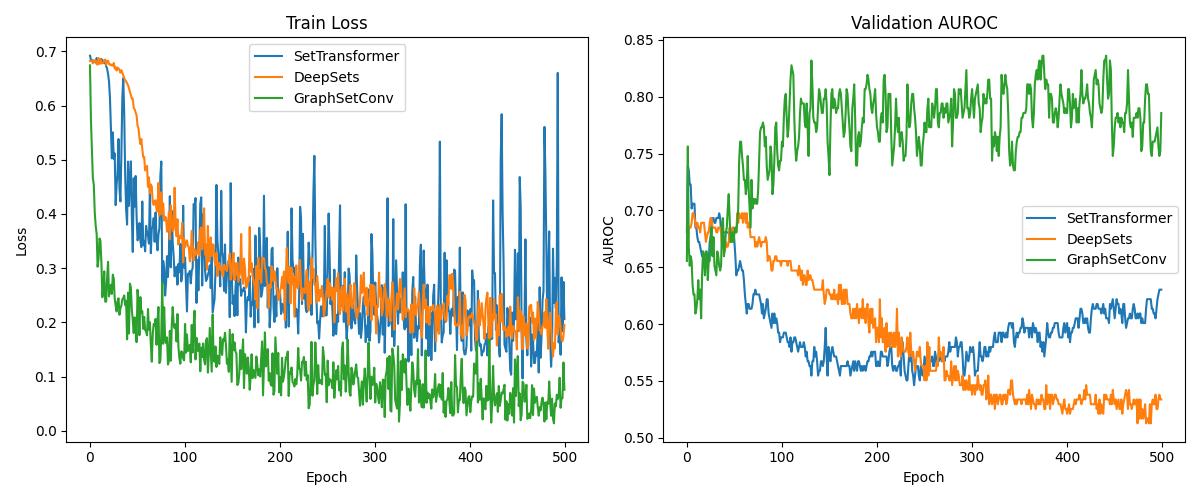
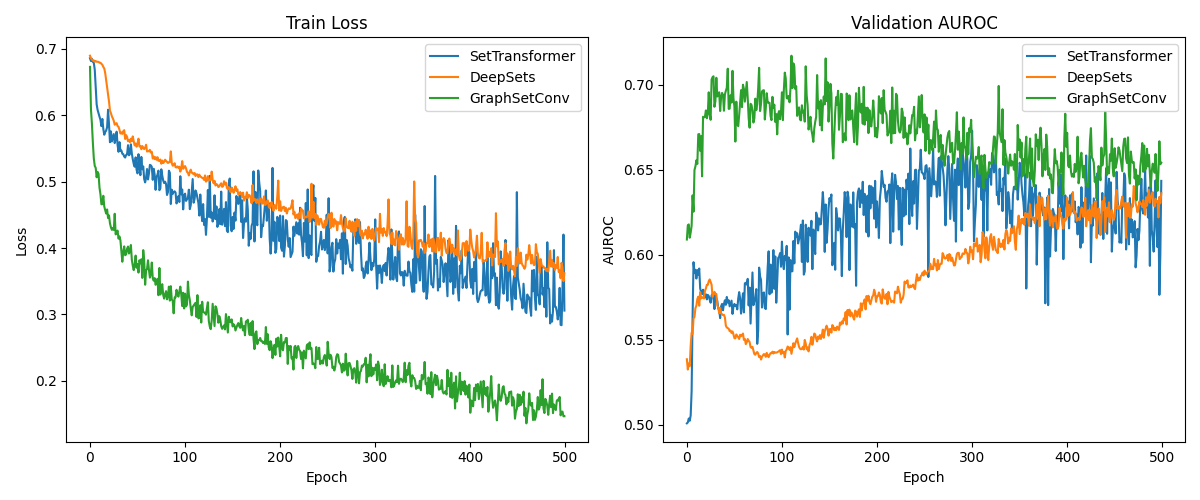
Added random set size set creator

diff --git a/scripts/train_moleculenet.py b/scripts/train_moleculenet.py
@@ -20,6 +20,7 @@ from graph_set_transformer.data import (
     SetDataset,
     collate_sets,
     make_label_homogeneous_sets,
+    make_label_homogeneous_sets_rand_card,
 )
 
 import matplotlib.pyplot as plt
@@ -128,8 +129,8 @@ def main():
     num_classes = 2
 
     # Create sets of graphs with homogeneous labels
-    val_sets = make_label_homogeneous_sets(val_dataset, set_size)
-    test_sets = make_label_homogeneous_sets(test_dataset, set_size)
+    val_sets = make_label_homogeneous_sets(val_dataset, 1)
+    test_sets = make_label_homogeneous_sets(test_dataset, 1)
 
     # Create SetDatasets
     val_set_dataset = SetDataset(val_sets)
@@ -160,7 +161,10 @@ def main():
         best_model_state = None
 
         for epoch in range(num_epochs):
-            train_sets = make_label_homogeneous_sets(train_dataset, set_size)
+            train_sets = make_label_homogeneous_sets_rand_card(
+                train_dataset, max_size=1
+            )
+            # train_sets = make_label_homogeneous_sets(train_dataset, set_size)
             train_set_dataset = SetDataset(train_sets)
             train_loader = TorchDataLoader(
                 train_set_dataset,

diff --git a/src/graph_set_transformer/data/set_data_set.py b/src/graph_set_transformer/data/set_data_set.py
@@ -49,3 +49,23 @@ def make_label_homogeneous_sets(dataset, set_size):
 
     random.shuffle(sets)
     return sets
+
+
+def make_label_homogeneous_sets_rand_card(dataset, min_size=1, max_size=10):
+    label_groups = defaultdict(list)
+    for data in dataset:
+        label_groups[int(data.y.item())].append(data)
+
+    sets = []
+    for label, graphs in label_groups.items():
+        random.shuffle(graphs)
+        i = 0
+        while i < len(graphs):
+            remaining = len(graphs) - i
+            current_set_size = random.randint(min_size, min(max_size, remaining))
+
+            sets.append((graphs[i : i + current_set_size], label))
+            i += current_set_size
+
+    random.shuffle(sets)
+    return sets

diff --git a/src/graph_set_transformer/data/__init__.py b/src/graph_set_transformer/data/__init__.py
@@ -1,1 +1,6 @@
-from .set_data_set import SetDataset, collate_sets, make_label_homogeneous_sets
+from .set_data_set import (
+    SetDataset,
+    collate_sets,
+    make_label_homogeneous_sets,
+    make_label_homogeneous_sets_rand_card,
+)
